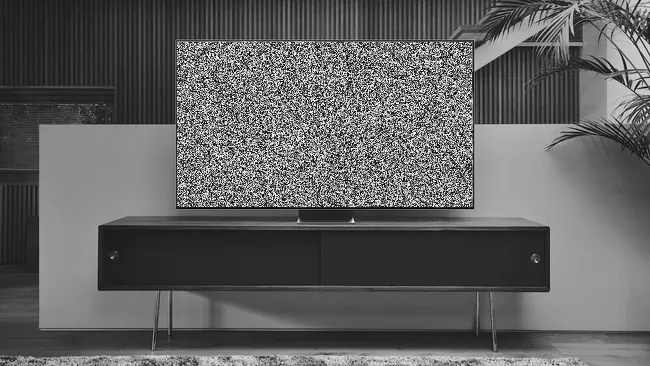
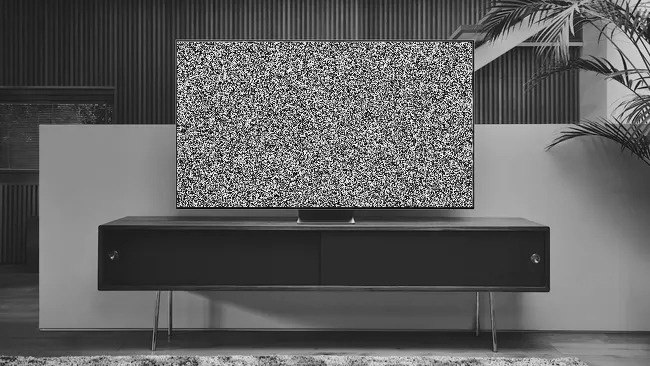
complete assignment 27

Changed region(s): [[0.2462, 0.0902, 0.7385, 0.571]]

diff --git a/Assignment-27/snowfall.py b/Assignment-27/snowfall.py
@@ -1,0 +1,53 @@
+# improt library
+import cv2
+import random
+import time
+from PIL import Image
+
+# read image
+image = cv2.imread("image/snowfall.jpg")
+image = cv2.cvtColor(image, cv2.COLOR_BGR2GRAY)
+frames = []
+
+def reset_image():
+    image = cv2.imread("image/snowfall.jpg")
+    image = cv2.cvtColor(image, cv2.COLOR_BGR2GRAY)
+
+# image shape = 1000 * 800
+while True:
+    for _ in range(400):
+        snow_place_row = random.randint(0, 1000)
+        snow_place_col = random.randint(0, 800)
+        cv2.circle(image, (snow_place_row, snow_place_col), 1, 250, 2)
+
+    # save random tv noise
+    obj = time.localtime()
+    if obj[5] % 2 == 0:
+        cv2.imwrite("image/land1.jpg", image)
+    elif obj[5] % 3 == 0:
+        cv2.imwrite("image/land2.jpg", image)
+    else:
+        cv2.imwrite("image/land3.jpg", image)
+
+
+    cv2.imshow("", image)
+    cv2.waitKey(1)
+    
+    image = cv2.imread("image/snowfall.jpg")
+    image = cv2.cvtColor(image, cv2.COLOR_BGR2GRAY)
+    
+    if cv2.waitKey(1) & 0xFF == ord("q"):
+        
+        # press q and quit programm and save gif
+        frames.append(Image.open("image/land1.jpg"))
+        frames.append(Image.open("image/land2.jpg"))
+        frames.append(Image.open("image/land3.jpg"))
+        frames[0].save(
+            "image/snowfall.gif",
+            format="GIF",
+            append_images=frames[1:],
+            save_all=True,
+            duration=100,
+            loop=0,
+        )
+        break

diff --git a/Assignment-27/detector.py b/Assignment-27/detector.py
@@ -1,0 +1,40 @@
+import cv2
+
+cap = cv2.VideoCapture(0)
+_, frame = cap.read()
+
+rows = frame.shape[0]
+cols = frame.shape[1]
+
+rect_length = 100
+row_mid = int((rows - rect_length) / 2)
+col_mid = int((cols - rect_length) / 2)
+
+rect_row_start = row_mid
+rect_row_end = row_mid + rect_length
+
+rect_col_start = col_mid
+rect_col_end = col_mid + rect_length
+
+while True:
+    _, frame = cap.read()
+    frame = cv2.cvtColor(frame, cv2.COLOR_BGR2GRAY)
+    cv2.rectangle(
+        frame, (rect_col_start, rect_row_start), (rect_col_end, rect_row_end), 0, 4
+    )
+    
+    cent_color_code = frame[(rect_col_start + rect_length), (rect_row_start + rect_length)]
+
+    if frame[(rect_col_start + rect_length), (rect_row_start + rect_length)] < 100:
+        cv2.putText(frame, f"BLACK({cent_color_code})", (20, 30), cv2.FONT_HERSHEY_TRIPLEX, 1, 0, 2)
+    elif (
+        frame[(rect_col_start + rect_length), (rect_row_start + rect_length)] >= 100
+        and frame[(rect_col_start + rect_length), (rect_row_start + rect_length)] <= 140
+    ):
+        cv2.putText(frame, f"GREY({cent_color_code})", (20, 30), cv2.FONT_HERSHEY_TRIPLEX, 1, 0, 2)
+    else:
+        cv2.putText(frame, f"WHITE({cent_color_code})", (20, 30), cv2.FONT_HERSHEY_TRIPLEX, 1, 0, 2)
+
+    cv2.imshow("", frame)
+    if cv2.waitKey(1) & 0xFF == ord("q"):
+        break

diff --git a/Assignment-27/tv.py b/Assignment-27/tv.py
@@ -22,13 +22,11 @@ while True:
         cv2.imwrite("image/frame1.jpg", image)
     elif obj[5] % 3 == 0:
         cv2.imwrite("image/frame2.jpg", image)
-    elif obj[5] % 5 == 0:
-        cv2.imwrite("image/frame3.jpg", image)
     else:
-        cv2.imwrite("image/frame4.jpg", image)
+        cv2.imwrite("image/frame3.jpg", image)
 
     # press q and quit programm and save gif
-    if cv2.waitKey(25) & 0xFF == ord("q"):
+    if cv2.waitKey(1) & 0xFF == ord("q"):
         frames.append(Image.open("image/frame1.jpg"))
         frames.append(Image.open("image/frame2.jpg"))
         frames.append(Image.open("image/frame3.jpg"))

diff --git a/Assignment-27/test3.py b/Assignment-27/test3.py
@@ -19,4 +19,4 @@ while True:
     if cv2.waitKey(1) & 0xFF == ord("q"):
         break
 
-writer.release()
+writer.release() 

diff --git a/Assignment-27/batman_image.py b/Assignment-27/batman_image.py
@@ -1,4 +1,3 @@
-import time
 import cv2
 
 image = cv2.imread("image/bat.jpg")

diff --git a/Assignment-27/README.md b/Assignment-27/README.md
@@ -1,0 +1,82 @@
+# Assignment-27
+
+> [!TIP]
+> This tutorial is about image,color and video proccessing
+
+## detector.py : 
+> color detector with cv2 library  
+### ![Global time](./images/screen_detector.PNG)
+```
+for i in range(0, 8):
+    for j in range(0, 8):
+        if i % 2 == 0 and j % 2 != 0:
+            color = 0
+
+        elif i % 2 != 0 and j % 2 == 0:
+            color = 0
+
+        else:
+            color = 255
+```
+
+
+## Black_tape.py : 
+> placing a black tape on the left side of the profile picture
+### ![Global time](./images/black_tape.jpg)
+```
+for i in range(70):
+    if start_width_black_tap >= 0:
+        end_black_tap = start_width_black_tap + black_tap_length
+        profile_cvt[i : i + 1, start_width_black_tap:end_black_tap] = 0
+        start_width_black_tap -= 1
+    else:
+        profile_cvt[i : i + 1, 0:black_tap_length] = 0
+        black_tap_length -= 1
+```
+
+
+## Gradient.py : 
+> create a color gradient from white to black with the cv2 library
+### ![Global time](./images/gradient_image.jpg)
+```
+for i in range(255):
+    bg_cvt[i : i + 1, 0:255] = abs(i - 255)
+```
+
+
+## Invert_color.py : 
+> invert the white and black colors of the image
+### ![Global time](./images/invert_pic.jpg)
+### ![Global time](./images/invert_pic1.jpg)
+```
+image1_neg = cv2.bitwise_not(image1_cvt)
+image2_neg = cv2.bitwise_not(image2_cvt)
+```
+
+
+## Name.py : 
+> writing the first letter of the first name with the Cv2 library
+### ![Global time](./images/name.jpg)
+```
+bg_cvt[100:200, 100:110] = 0
+bg_cvt[100:110, 110:140] = 0
+bg_cvt[110:120, 140:150] = 0
+bg_cvt[120:130, 150:160] = 0
+bg_cvt[130:140, 160:170] = 0
+bg_cvt[140:150, 170:180] = 0
+bg_cvt[150:160, 170:180] = 0
+bg_cvt[160:170, 160:170] = 0
+bg_cvt[170:180, 150:160] = 0
+bg_cvt[180:190, 140:150] = 0
+bg_cvt[190:200, 100:140] = 0
+```
+
+
+## Rotate.py : 
+> rotate image 180 degrees with cv2 library
+### ![Global time](./images/rotate_pic.jpg)
+```
+image3 = cv2.imread("images/3.jpg")
+image3_rotate = cv2.rotate(image3, cv2.ROTATE_180)
+```
+
